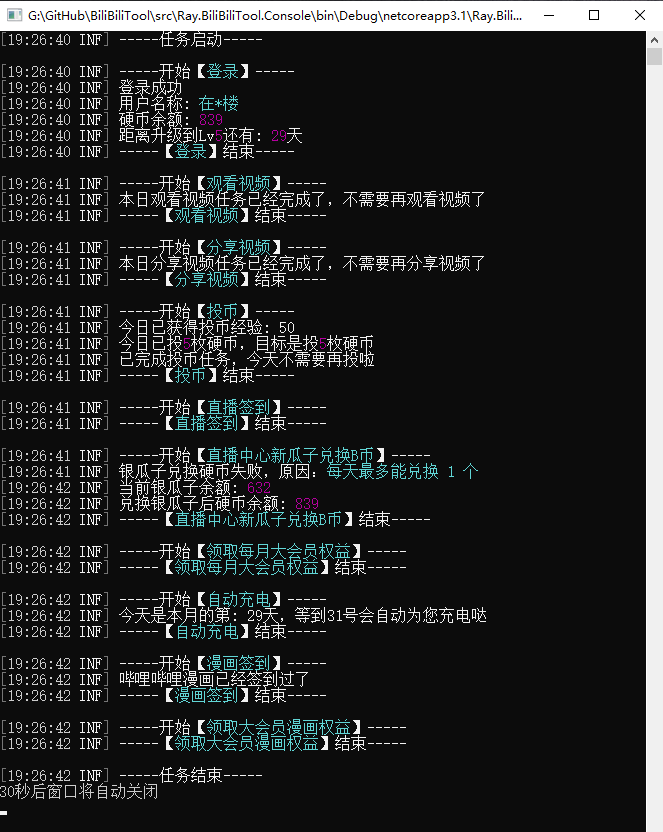
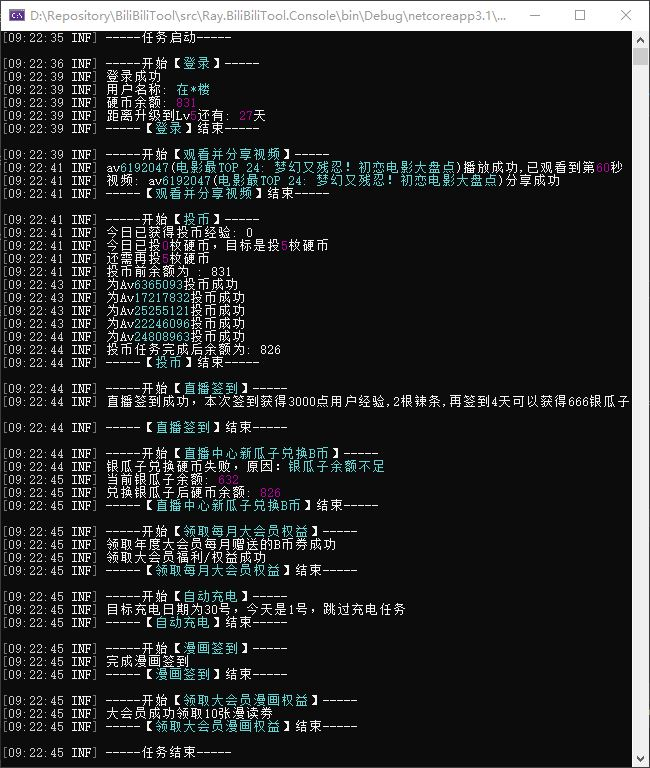
1.投币时日志输出视频名称；2.部分代码优化重构；3.添加必要注释信息

diff --git a/src/Ray.BiliBiliTool.DomainService/VideoDomainService.cs b/src/Ray.BiliBiliTool.DomainService/VideoDomainService.cs
@@ -13,6 +13,9 @@ using Ray.BiliBiliTool.DomainService.Interfaces;
 
 namespace Ray.BiliBiliTool.DomainService
 {
+    /// <summary>
+    /// 视频
+    /// </summary>
     public class VideoDomainService : IVideoDomainService
     {
         private readonly ILogger<VideoDomainService> _logger;
@@ -195,7 +198,7 @@ namespace Ray.BiliBiliTool.DomainService
                     continue;
                 }
 
-                bool isSuccess = AddCoinsForVideo(aid, 1, _dailyTaskOptions.SelectLike);
+                bool isSuccess = AddCoinsForVideo(aid, 1, _dailyTaskOptions.SelectLike, title);
                 if (isSuccess)
                 {
                     successCoins++;
@@ -218,18 +221,18 @@ namespace Ray.BiliBiliTool.DomainService
         /// <param name="multiply">投币数量</param>
         /// <param name="select_like">是否同时点赞 1是0否</param>
         /// <returns>是否投币成功</returns>
-        public bool AddCoinsForVideo(string aid, int multiply, bool select_like)
+        public bool AddCoinsForVideo(string aid, int multiply, bool select_like, string title = "")
         {
             var result = _dailyTaskApi.AddCoinForVideo(aid, multiply, select_like ? 1 : 0, _biliBiliCookieOptions.BiliJct).Result;
 
             if (result.Code == 0)
             {
-                _logger.LogInformation("为Av{aid}投币成功", aid);//todo:视频名称
+                _logger.LogInformation("为Av{aid}({title})投币成功", aid, title);
                 return true;
             }
             else
             {
-                _logger.LogDebug("为Av{aid}投币失败，原因：{msg}", aid, result.Message);
+                _logger.LogDebug("为Av{aid}({title})投币失败，原因：{msg}", aid, title, result.Message);
                 return false;
             }
         }

diff --git a/src/Ray.BiliBiliTool.Agent/MyHttpClientDelegatingHandler.cs b/src/Ray.BiliBiliTool.Agent/MyHttpClientDelegatingHandler.cs
@@ -22,6 +22,8 @@ namespace Ray.BiliBiliTool.Agent
         protected override async Task<HttpResponseMessage> SendAsync(HttpRequestMessage request, CancellationToken cancellationToken)
         {
             //记录请求内容
+            _logger.LogDebug($"[{request.Method}] {request.RequestUri}");
+
             if (request.Content != null)
             {
                 _logger.LogDebug(await request.Content.ReadAsStringAsync());
@@ -36,15 +38,19 @@ namespace Ray.BiliBiliTool.Agent
                 _logger.LogDebug(content);
 
                 //如果返回不是json格式，则抛异常
+                string msg = "Api返回Content序列化异常，怀疑为不标准返回类型";
                 try
                 {
                     var ob = JsonSerializer.Deserialize<object>(content);
                     if (ob == null)
-                        throw new NullReferenceException();
+                    {
+                        _logger.LogCritical(msg);
+                        throw new Exception(msg);
+                    }
                 }
                 catch (Exception)
                 {
-                    _logger.LogInformation("接口返回异常");
+                    _logger.LogInformation(msg);
                     throw;
                 }
             }

diff --git a/src/Ray.BiliBiliTool.DomainService/CoinDomainService.cs b/src/Ray.BiliBiliTool.DomainService/CoinDomainService.cs
@@ -15,6 +15,9 @@ using Ray.BiliBiliTool.Infrastructure.Helpers;
 
 namespace Ray.BiliBiliTool.DomainService
 {
+    /// <summary>
+    /// 硬币
+    /// </summary>
     public class CoinDomainService : ICoinDomainService
     {
         private readonly ILogger<CoinDomainService> _logger;
@@ -60,7 +63,7 @@ namespace Ray.BiliBiliTool.DomainService
         private int GetDonateCoinExp()
         {
             //var result = _experienceApi.GetDonateCoinExp().Result;
-            //todo:这里使用Refit调用，连接、获取成功(Status=200)，但是从Content获取Data异常，确定问题为返回内容被gzip压缩，但是暂未找到解决办法，下面先通过手动调用手动解压实现
+            //todo:这里使用Refit调用，连接、获取成功(Status=200)，但是从Content获取Data异常，怀疑和返回内容被gzip压缩有关，但是暂未找到解决办法，下面先通过手动调用手动解压实现
 
             var client = _httpClientFactory.CreateClient();
             client.DefaultRequestHeaders.Add("Cookie", _biliBiliCookieOptions.ToString());

diff --git a/src/Ray.BiliBiliTool.DomainService/AccountDomainService.cs b/src/Ray.BiliBiliTool.DomainService/AccountDomainService.cs
@@ -8,6 +8,9 @@ using Ray.BiliBiliTool.DomainService.Interfaces;
 
 namespace Ray.BiliBiliTool.DomainService
 {
+    /// <summary>
+    /// 账户
+    /// </summary>
     public class AccountDomainService : IAccountDomainService
     {
         private readonly ILogger<AccountDomainService> _logger;
@@ -75,7 +78,7 @@ namespace Ray.BiliBiliTool.DomainService
             {
                 _logger.LogWarning("获取今日任务完成状态失败：{result}", JsonSerializer.Serialize(apiResponse));
                 result = _dailyTaskApi.GetDailyTaskRewardInfo().Result.Data;
-                //todo:偶发性请求失败，再请求一次，这么些很丑陋，待用polly实现
+                //todo:偶发性请求失败，再请求一次，这么写很丑陋，待用polly再框架层面实现
             }
 
             return result;

diff --git a/src/Ray.BiliBiliTool.Config/Options/BiliBiliCookieOptions.cs b/src/Ray.BiliBiliTool.Config/Options/BiliBiliCookieOptions.cs
@@ -9,15 +9,29 @@ namespace Ray.BiliBiliTool.Config.Options
     /// </summary>
     public class BiliBiliCookieOptions
     {
+        /// <summary>
+        /// DedeUserID
+        /// </summary>
         [Description("DedeUserID")]
         public string UserId { get; set; }
 
+        /// <summary>
+        /// SESSDATA
+        /// </summary>
         [Description("SESSDATA")]
         public string SessData { get; set; }
 
+        /// <summary>
+        /// bili_jct
+        /// </summary>
         [Description("bili_jct")]
         public string BiliJct { get; set; }
 
+        /// <summary>
+        /// 检查是否已配置
+        /// </summary>
+        /// <param name="logger"></param>
+        /// <returns></returns>
         public bool Check(ILogger logger)
         {
             bool result = true;

diff --git a/src/Ray.BiliBiliTool.Infrastructure/JsonSerializerOptionsBuilder.cs b/src/Ray.BiliBiliTool.Infrastructure/JsonSerializerOptionsBuilder.cs
@@ -4,6 +4,9 @@ using System.Text.Unicode;
 
 namespace Ray.BiliBiliTool.Infrastructure
 {
+    /// <summary>
+    /// System.Text.Json的序列化OptionsBuilder
+    /// </summary>
     public class JsonSerializerOptionsBuilder
     {
         static JsonSerializerOptionsBuilder()
@@ -22,6 +25,9 @@ namespace Ray.BiliBiliTool.Infrastructure
             DefaultOptions = defaultJsonSerializerOptions;
         }
 
+        /// <summary>
+        /// 默认配置
+        /// </summary>
         public static JsonSerializerOptions DefaultOptions;
 
         public static JsonSerializerOptions Builder(Action<JsonSerializerOptions> build)

diff --git a/src/Ray.BiliBiliTool.Config/Options/DailyTaskOptions.cs b/src/Ray.BiliBiliTool.Config/Options/DailyTaskOptions.cs
@@ -20,7 +20,7 @@ namespace Ray.BiliBiliTool.Config.Options
         /// <summary>
         /// 优先选择支持的up主Id集合，配置后会优先从指定的up主下挑选视频进行观看、分享和投币，不配置则从排行耪随机获取支持视频
         /// </summary>
-        public string SupportUpIds { get; set; }
+        public string SupportUpIds { get; set; } = "";
 
         /// <summary>
         /// 每月几号自动为自己充电的[-1,31]，-1表示不指定，默认月底最后一天；0表示不充电

diff --git a/src/Ray.BiliBiliTool.Infrastructure/Extensions/ObjectExtension.cs b/src/Ray.BiliBiliTool.Infrastructure/Extensions/ObjectExtension.cs
@@ -9,6 +9,12 @@ namespace Ray.BiliBiliTool.Infrastructure.Extensions
 {
     public static class ObjectExtension
     {
+        /// <summary>
+        /// 获取属性的Description
+        /// </summary>
+        /// <param name="type"></param>
+        /// <param name="propertyName"></param>
+        /// <returns></returns>
         public static string GetPropertyDescription(this Type type, string propertyName)
         {
             DescriptionAttribute desc = (DescriptionAttribute)type?.GetProperty(propertyName)?

diff --git a/src/Ray.BiliBiliTool.DomainService/Interfaces/IVideoDomainService.cs b/src/Ray.BiliBiliTool.DomainService/Interfaces/IVideoDomainService.cs
@@ -48,7 +48,7 @@ namespace Ray.BiliBiliTool.DomainService.Interfaces
         /// <param name="multiply"></param>
         /// <param name="select_like"></param>
         /// <returns></returns>
-        bool AddCoinsForVideo(string aid, int multiply, bool select_like);
+        bool AddCoinsForVideo(string aid, int multiply, bool select_like, string title = "");
 
         /// <summary>
         /// 是否已对某视频投币

diff --git a/src/Ray.BiliBiliTool.Infrastructure/RayConfiguration.cs b/src/Ray.BiliBiliTool.Infrastructure/RayConfiguration.cs
@@ -5,8 +5,14 @@ using Microsoft.Extensions.Configuration;
 
 namespace Ray.BiliBiliTool.Infrastructure
 {
+    /// <summary>
+    /// 配置
+    /// </summary>
     public class RayConfiguration
     {
+        /// <summary>
+        /// 根配置
+        /// </summary>
         public static IConfigurationRoot Root { get; set; }
     }
 }

diff --git a/src/Ray.BiliBiliTool.DomainService/VipPrivilegeDomainService.cs b/src/Ray.BiliBiliTool.DomainService/VipPrivilegeDomainService.cs
@@ -12,6 +12,9 @@ using Ray.BiliBiliTool.DomainService.Interfaces;
 
 namespace Ray.BiliBiliTool.DomainService
 {
+    /// <summary>
+    /// 会员权益
+    /// </summary>
     public class VipPrivilegeDomainService : IVipPrivilegeDomainService
     {
         private readonly ILogger<VipPrivilegeDomainService> _logger;

diff --git a/src/Ray.BiliBiliTool.Infrastructure/RayContainer.cs b/src/Ray.BiliBiliTool.Infrastructure/RayContainer.cs
@@ -4,8 +4,14 @@ using System.Text;
 
 namespace Ray.BiliBiliTool.Infrastructure
 {
+    /// <summary>
+    /// 容器
+    /// </summary>
     public class RayContainer
     {
+        /// <summary>
+        /// 根容器
+        /// </summary>
         public static IServiceProvider Root { get; set; }
     }
 }
